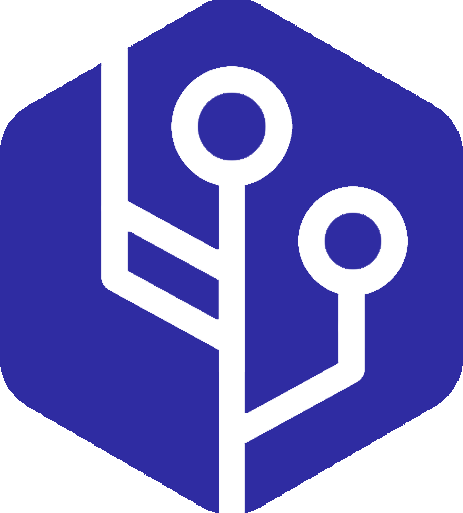
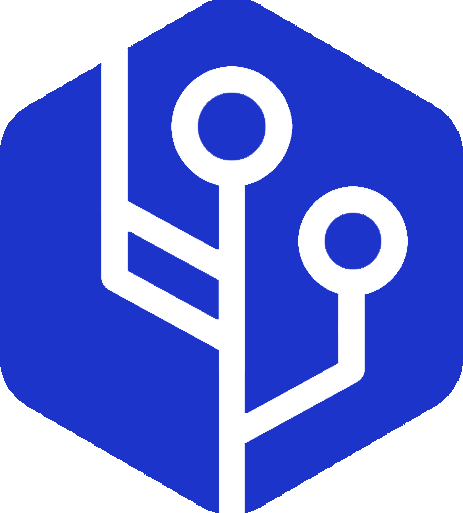
fixing colors

diff --git a/index.html b/index.html
@@ -2,7 +2,7 @@
 <html lang="en">
 
 <head>
-    <link rel="icon" href="assets/media/mlas.png" type="image/gif" sizes="16x16">
+    <link rel="icon" href="assets/media/21.png" type="image/gif" sizes="16x16">
     <meta charset="UTF-8">
     <meta http-equiv="X-UA-Compatible" content="IE=edge">
     <meta name="viewport" content="width=device-width, initial-scale=1.0">
@@ -88,7 +88,7 @@
     
 
 <!-- background -->
-<Body background="assets/media/BG1.jpeg"> <br>  
+<Body background="assets/media/BG2.jpeg"> <br>  
 
 <!-- Chat  -->
 <div class="chatall">
@@ -147,7 +147,7 @@
             <div class="">
                 <div class="cardContent landing">
                     <div class="floating">
-                    <img src="assets/media/mlas.png" style="height: 190px;width: 200px;" class="main-logo">
+                    <img src="assets/media/21.png" style="height: 190px;width: 200px; filter: contrast(0%) brightness(1000%);" class="main-logo">
                      <p style="margin: 0px; font-family: 'Poppins'; font-size: 40px;color: #ffffff;
                     font-family: 'Bebas Neue', sans-serif;
                     font-size: 46px;
@@ -175,10 +175,10 @@
                             class="apply-button" 
                             data-hackathon-slug="hackowasp-4" 
                             data-button-theme="dark-inverted"
-                            style="height: 44px; width: 312px">
+                            style="height: 44px; width: 312px;">
                         </div>
-                        <button class="mentorbtn">
-                            <a class="" href="https://386cxlbygsg.typeform.com/to/bEjWCigb" target="_blank"><span><i class="fas fa-user-graduate" style="margin-right: 10px;"></i>REGISTER</span></a>
+                        <button class="mentorbtn" style="border-radius:20px;">
+                            <a class="" href="https://386cxlbygsg.typeform.com/to/bEjWCigb" target="_blank"><span>REGISTER</span></a>
                         </button>
                     </div>
                   <!-- </button> -->
@@ -1067,8 +1067,8 @@ Spread over a day, it comprises an insightful tech talk, a hands-on workshop and
                     <div class="cardContent" style="padding: 40px;">
                         <h4>LOCATION</h4>
                         TEQIP Building, Jadavpur University, Kolkata <br>
-                        <h4>Information Office</h4>
-                        
+                        <!-- <h4>Information Office</h4> -->
+                        <br/>                        
                         Address: 188, Raja S.C. Mallick Rd, <br>
                         Kolkata 700032.Ph:+9133-24146666 <br>
                         <!-- <div class="teamButton ourteambtn">

diff --git a/assets/css/benefits.css b/assets/css/benefits.css
@@ -20,7 +20,7 @@
 }
 
 .carderprizer{
-  background-color: #765782 !important;
+  background-color: #451d8e !important;
 }
 
 body .pratcontainer {
@@ -57,17 +57,17 @@ body .pratcontainer .pratcard .face.face1 h2 {
 }
 body .pratcontainer .pratcard .face.face1 .java {
   text-align: center;
-  background-color: #fd73ff;
+  background-color: #4288c6;
   -webkit-background-clip: text;
   -webkit-text-fill-color: transparent;
 }
 body .pratcontainer .pratcard .face.face1 .python {
-  background-color: #fd73ff;
+  background-color: #4288c6;
   -webkit-background-clip: text;
   -webkit-text-fill-color: transparent;
 }
 body .pratcontainer .pratcard .face.face1 .cSharp {
-  background-color: #fd73ff;
+  background-color: #4288c6;
   -webkit-background-clip: text;
   -webkit-text-fill-color: transparent;
 }
@@ -132,9 +132,9 @@ body .ello {
 }
 .pratcard:hover .ello, .pratcard:hover .ello1, .pratcard:hover .ello2, .pratcard:hover .ello3, .pratcard:hover .ello4{
  background-image: none;
- background: #9b69aa;  /* fallback for old browsers */
+ background: #472274;  /* fallback for old browsers */
  background: -webkit-linear-gradient(to bottom, #611488, #0d0334);  /* Chrome 10-25, Safari 5.1-6 */
- background: linear-gradient(to top, #611488, rgb(68, 5, 83),#2a0334, black); /* W3C, IE 10+/ Edge, Firefox 16+, Chrome 26+, Opera 12+, Safari 7+ */
+ background: linear-gradient(to top, #611488, rgba(68, 5, 83, 0.8),#2a0334fb, black); /* W3C, IE 10+/ Edge, Firefox 16+, Chrome 26+, Opera 12+, Safari 7+ */
 }
 
 body .ello1 {
@@ -210,7 +210,7 @@ body .ello4 {
 }
 
 body .hello {
-  background: #9b69aa;  /* fallback for old browsers */
+  background: #472274;  /* fallback for old browsers */
   background: -webkit-linear-gradient(to bottom, #965895, #7149A1);  /* Chrome 10-25, Safari 5.1-6 */
   background: linear-gradient(to bottom, #965895, #7149A1); /* W3C, IE 10+/ Edge, Firefox 16+, Chrome 26+, Opera 12+, Safari 7+ */
   border-radius: 15px;

diff --git a/assets/css/faq.css b/assets/css/faq.css
@@ -1,8 +1,8 @@
 /* Faq page */
 :root {
-  --theme-color: #a6597a;
-  --click-color: #a6597a;
-  --hover-color: #a6597a;
+  --theme-color: #451d8e;
+  --click-color: #451d8e;
+  --hover-color: #451d8e;
   --border-color: black;
 }
 .faqcontainer {
@@ -14,7 +14,7 @@
 }
 
 .faq-header {
-  background-color: #765782;
+  background-color: #451d8e;
   padding-bottom: 8px;
 }
 
@@ -148,7 +148,7 @@
 }
 
 .text-box-child {
-  background-color: #a6597a;
+  background-color: #451d8e;
   width: 90%;
   padding-left: 10px;
   padding-bottom: 10px;
@@ -158,7 +158,7 @@
   cursor: text;
 }
 .text-box-submit {
-  background-color: #a6597a;
+  background-color: #451d8e;
   margin-left: auto;
   margin-right: auto;
   padding: 10px 16px;
@@ -172,7 +172,7 @@
     rgba(255, 255, 255, 0.425) 0%,
     rgba(255, 255, 255, 0.103) 80%
   );
-  background-color: #a6597a;
+  background-color: #451d8e;
   position: relative;
   width: 65%;
   padding: 20px;
@@ -213,7 +213,7 @@
     rgba(255, 255, 255, 0.425) 0%,
     rgba(255, 255, 255, 0.103) 80%
   );
-  background-color: #a6597a;
+  background-color: #451d8e;
   position: relative;
   width: 65%;
   /* max-width: 60%; */

diff --git a/assets/css/style.css b/assets/css/style.css
@@ -227,7 +227,7 @@ section {
   height: 50px;
   border-radius: 10px;
   border: none;
-  background-color: #765782 !important;
+  background-color: #451d8e !important;
   color: white;
   font-family: 'Roboto', sans-serif;
   font-size: 1.2rem;
@@ -394,7 +394,7 @@ section {
   backdrop-filter: blur(-1px) !important;
 }
 .about .cardHeader {
-  background-color: #765782;
+  background-color: #451d8e;
   border-radius: 16px 16px 0px 0px;
 }
 
@@ -403,7 +403,7 @@ section {
   backdrop-filter: blur(32px) !important;
 }
 .problems .cardHeader{
-  background-color: #765782;
+  background-color: #451d8e;
   border-radius: 16px 16px 0px 0px;
 }
 
@@ -489,13 +489,13 @@ section {
   backdrop-filter: blur(32px) !important;
 }
 .aboutFooter .cardHeader {
-  background-color: #a6597a;
+  background-color: #451d8e;
   border-radius: 16px 16px 0px 0px;
 }
 
 #footer .teamButton a {
   text-decoration: none;
-  background-color: #a6597a;
+  background-color: #451d8e;
   text-align: center;
   padding: 10px 0px;
   display: inline-block;

diff --git a/assets/css/comingSoon.css b/assets/css/comingSoon.css
@@ -11,8 +11,8 @@
 
   @keyframes textAnim {
     0% {font-size: 30px; fill: white;}
-    10% {font-size: 50px; fill: #603B5B;}
-    40% {font-size: 40px; fill: #61418F}
+    10% {font-size: 50px; fill: #FFF;}
+    40% {font-size: 40px; fill: #FFF;}
     100% {font-size: 30px; fill: white;}
   }
 
@@ -44,8 +44,8 @@
   
   @keyframes textAnim {
     0% {font-size: 80px; fill: white;}
-    10% {font-size: 100px; fill: #603B5B;}
-    40% {font-size: 70px; fill: #61418F}
+    10% {font-size: 100px; fill: #FFF;}
+    40% {font-size: 70px; fill: #FFF}
     100% {font-size: 80px; fill: white;}
   }
 

diff --git a/assets/css/ca.css b/assets/css/ca.css
@@ -37,7 +37,7 @@
   height: 50px;
   width: 20%;
   margin-top: 50px;
-  background-color: #765782;
+  background-color: #451d8e;
   color: white;
   border: 1px solid rgba(255, 255, 255, 0.5);
   border-radius: 50px;

diff --git a/assets/css/carousel.css b/assets/css/carousel.css
@@ -19,6 +19,15 @@
   height: 300px;
 }
 
+/* 
+@media only screen and (max-width: 600px) {
+  .slide img {
+    width: 100%;
+    height: 300px;
+  }
+  
+} */
+
 .carouselPlace {
   padding-top: 60px !important;
 }

diff --git a/assets/css/timeline.css b/assets/css/timeline.css
@@ -6,7 +6,7 @@
     backdrop-filter: blur(32px) !important;
 }
 .timeLine-card .cardHeader{
-    background-color: #765782;
+    background-color: #451d8e;
     border-radius: 16px 16px 0px 0px;
 } */
 
